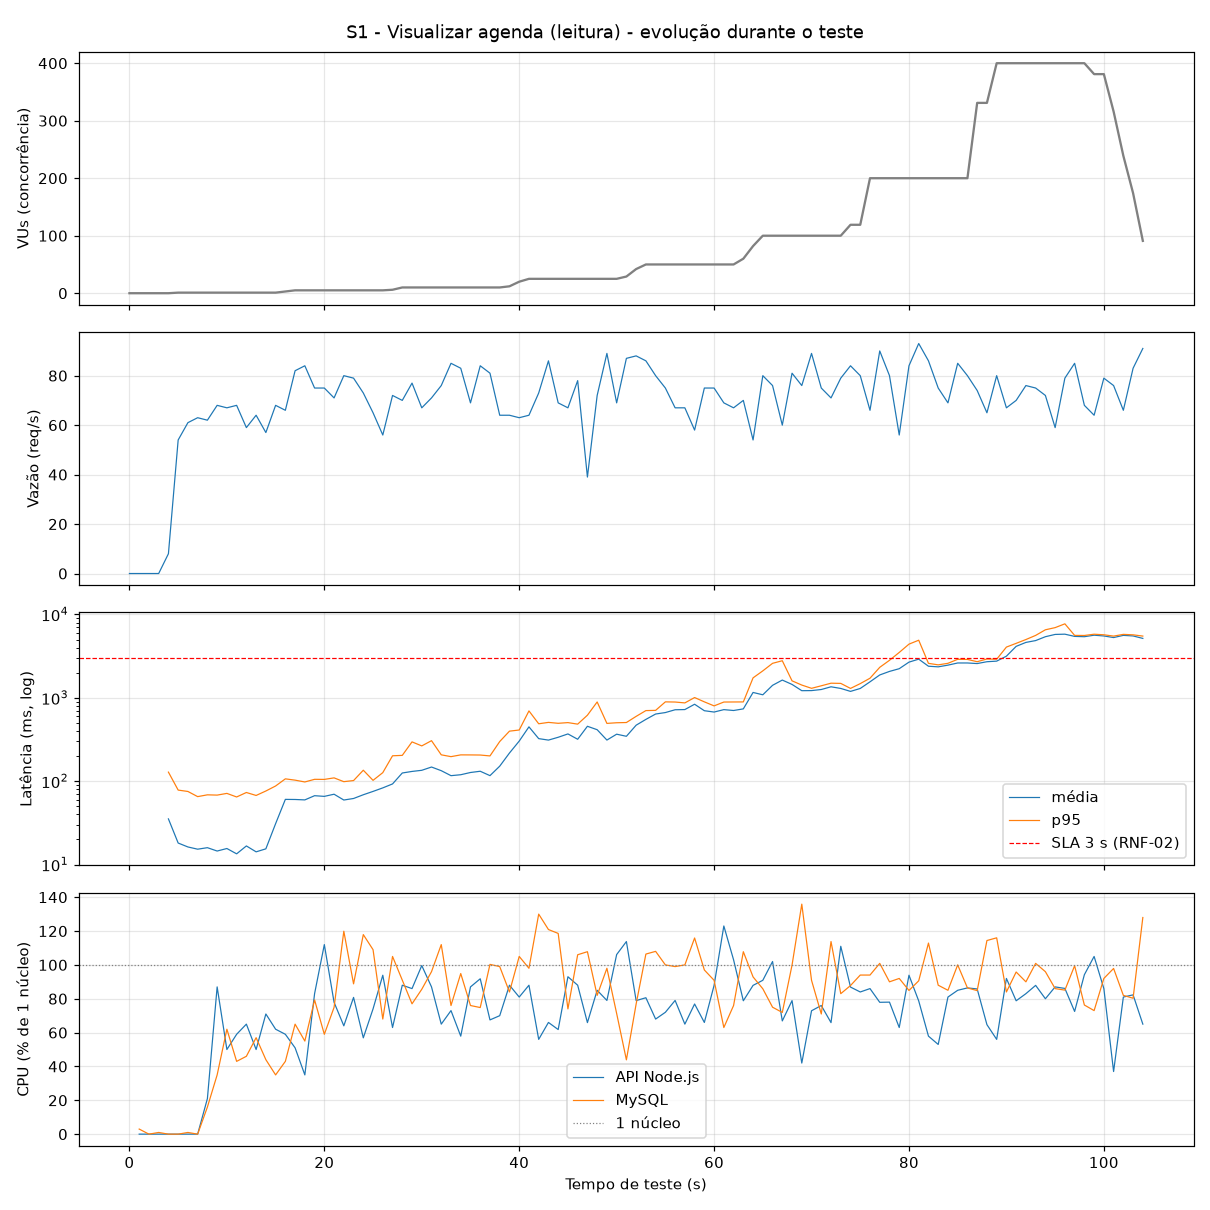
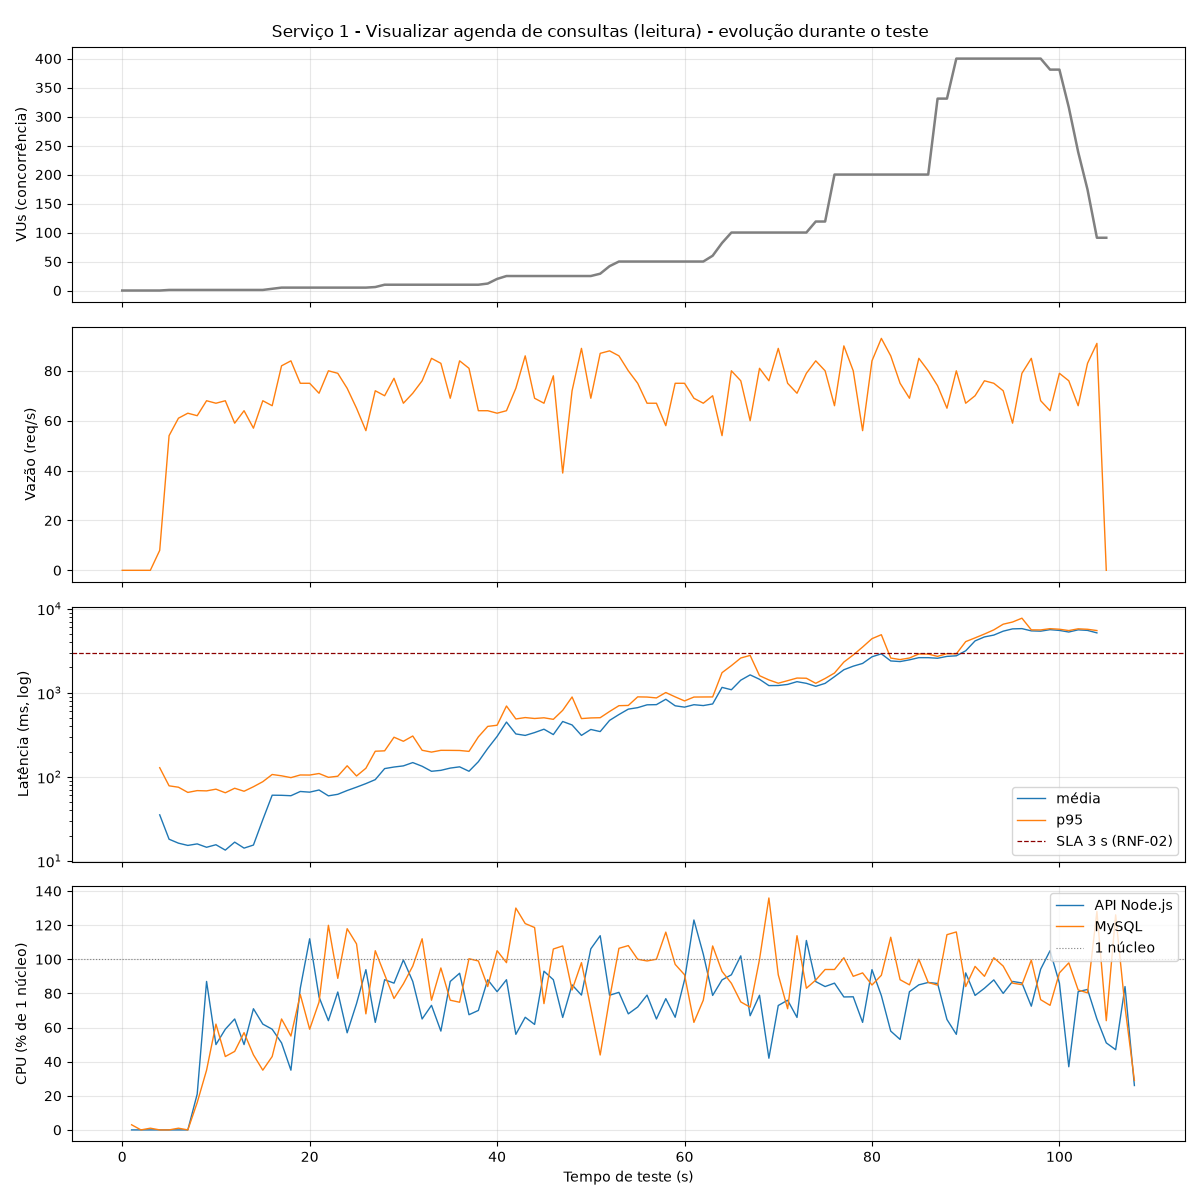
Fase E: padroniza títulos dos gráficos, parâmetros do k6 e vazão de 1min

diff --git a/fase_e/k6/comum.js b/fase_e/k6/comum.js
@@ -7,8 +7,8 @@
 export const BASE_URL = __ENV.BASE_URL || 'http://localhost:3000';
 
 const NIVEIS = (__ENV.NIVEIS || '1,5,10,25,50,100,200,400').split(',').map(Number);
-const PATAMAR = __ENV.PATAMAR || '30s';   // duração de cada degrau
-const RAMPA = __ENV.RAMPA || '5s';        // transição entre degraus
+const PATAMAR = __ENV.PATAMAR || '10s';   // duração de cada degrau
+const RAMPA = __ENV.RAMPA || '2s';        // transição entre degraus
 
 export function estagios() {
   const s = [];

diff --git a/fase_e/README.md b/fase_e/README.md
@@ -44,7 +44,7 @@ Foram selecionados dois serviços internos centrais do sistema — um de **leitu
     * **Máquina:** VPS Oracle Cloud com Ubuntu Linux (2 vCPUs, 1 GB de RAM)
     * **Backend:** Node.js `v22` + Express (`localhost:3000`, pool MySQL com 10 conexões)
     * **SGBD:** MySQL Server `8.4` (`localhost:3306`, motor InnoDB)
-    * **Ferramenta de teste:** Grafana k6 (rampa de 1, 5, 10, 25, 50, 100, 200 e 400 VUs)
+    * **Ferramenta de teste:** Grafana k6 (degraus de 1, 5, 10, 25, 50, 100, 200 e 400 VUs, cada um mantido por 10 s)
   * **Testes de carga (SLA): latência, vazão e concorrência (limite de requisições simultâneas)**
     * **Latência (tempo de resposta médio e percentis):** média de `16,97 ms` (`p95 = 75,46 ms`) com 1 VU, evoluindo até `1.335,51 ms` (`p95 = 1.578,45 ms`) em 100 VUs e `5.176,95 ms` (`p95 = 6.516,72 ms`) em 400 VUs.
     * **Vazão (quantidade média de requisições por intervalo de tempo):**
@@ -97,7 +97,7 @@ Foram selecionados dois serviços internos centrais do sistema — um de **leitu
       * Intervalo de `5s`: média de **78,2 req/s** (pico de `101,6 req/s`)
       * Intervalo de `10s`: média de **78,2 req/s** (pico de `94,8 req/s`)
       * Intervalo de `30s`: média de **79,6 req/s** (pico de `93,0 req/s`)
-      * Intervalo de `1min`: média de **72,8 req/s** (pico de `96,6 req/s`, máxima por degrau de concorrência)
+      * Intervalo de `1min`: média de **72,8 req/s** (pico de `72,8 req/s`)
     * **Concorrência (limite de requisições simultâneas):** a vazão satura a partir de **10 VUs** (`94,0 req/s`, limite do pool de conexões), com pico de **96,6 req/s**. O **limite de requisições simultâneas dentro do SLA (RNF-02: `p95 <= 3.000 ms`) é de 200 VUs** (`p95 = 2.214,00 ms`); em **400 VUs** o `p95` atinge `5.803,92 ms`, ultrapassando o limite de 3 s (com `0,00%` de erros HTTP em todos os níveis).
 
     | Concorrência (VUs) | Vazão (`req/s`) | Latência média (`ms`) | `p95` (`ms`) | Erros | CPU API Node (`%`) | CPU MySQL (`%`) |
